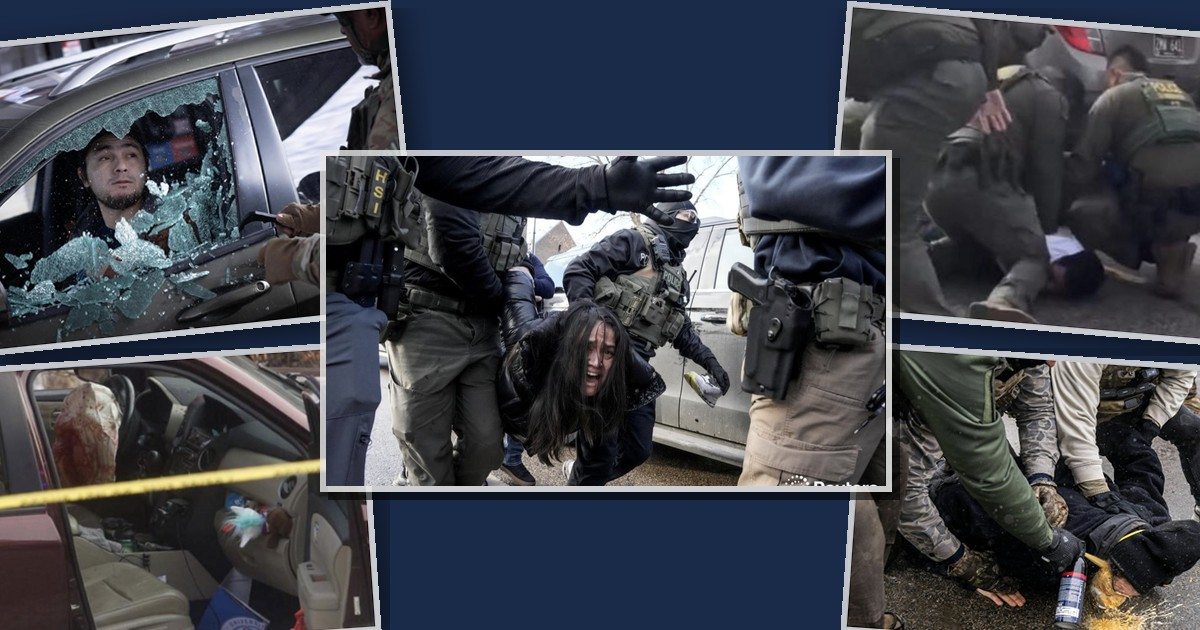
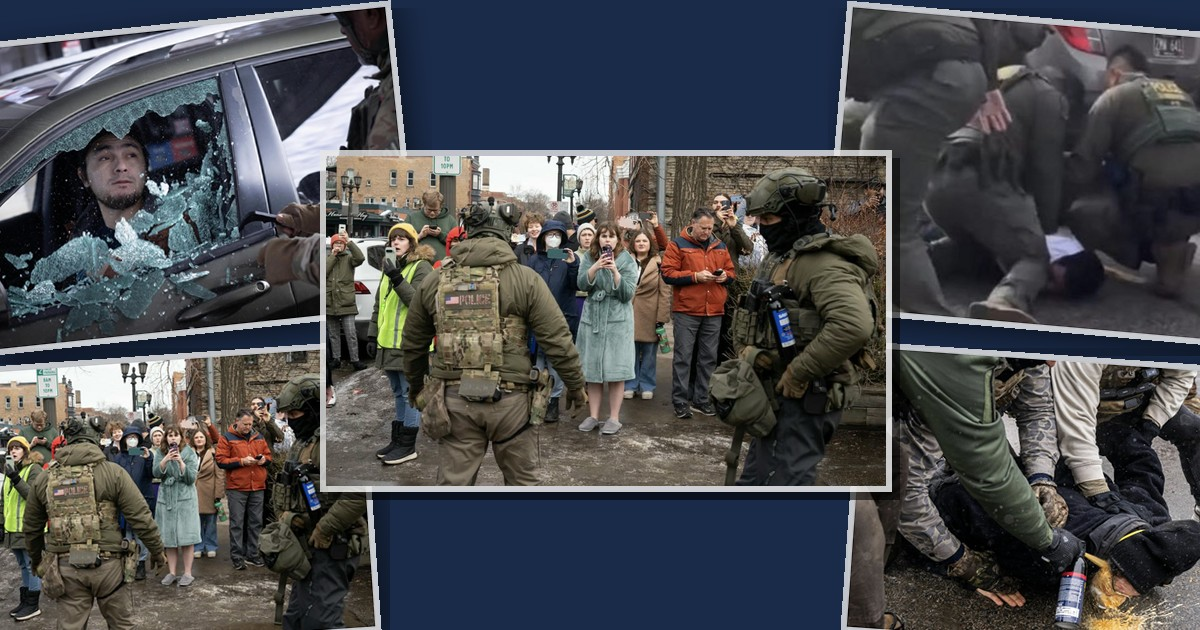
Update meta descriptions to 250+ sourced media stories, swap OG center image

diff --git a/docs/index.html b/docs/index.html
@@ -6,7 +6,7 @@
     <meta http-equiv="Cache-Control" content="no-cache, no-store, must-revalidate">
     <meta http-equiv="Pragma" content="no-cache">
     <meta http-equiv="Expires" content="0">
-    <meta name="description" content="Documenting 180+ ICE and CBP incidents in Minnesota during Operation Metro Surge (Dec 2025–present). Two citizens killed by federal agents. Children detained and flown to Texas. Schools raided and closed. Hospitals entered without warrants. Citizens racially profiled. Observers arrested for filming. Businesses shuttered. Sourced reports with video evidence, news coverage, and a chronological timeline of key events.">
+    <meta name="description" content="250+ sourced media stories documenting ICE and CBP incidents in Minnesota during Operation Metro Surge (Dec 2025–present). Each incident links to news coverage and video evidence, organized with a chronological timeline.">
     <meta name="keywords" content="ICE Minnesota, ICE raids Minnesota, ICE arrests Minnesota, ICE activity Minnesota, ICE incidents Minnesota, ICE operations Minnesota, ICE tracker Minnesota, ICE database Minnesota, ICE enforcement Minnesota, immigration raids Minneapolis, immigration enforcement Minnesota, CBP Minnesota, Operation Metro Surge, Operation Metro Surge incidents, Operation Metro Surge timeline, Operation Metro Surge summary, civil rights violations ICE, human rights ICE Minnesota, racial profiling ICE, ICE detentions Minnesota, ICE deportations Minnesota, ICE encounters Minnesota, document ICE activity, ICE accountability, Minneapolis ICE raids, St Paul ICE, Rochester ICE, Mankato ICE, St Cloud ICE, Willmar ICE, Twin Cities immigration enforcement, Minnesota immigration raids, ICE near schools Minnesota, ICE near hospitals, ICE school raid Minneapolis, ICE hospital Minnesota, Roosevelt High School ICE, ICE observer rights, filming ICE agents, First Amendment ICE, ICE pepper spray Minnesota, ICE tear gas Minneapolis, ICE flashbang Minnesota, ICE citizen detained, ICE wrong person, ICE racial profiling, ICE citizen check Minnesota, ICE shooting Minnesota, CBP shooting Minneapolis, Renee Good ICE, Alex Pretti ICE, ICE child detained Minnesota, family separation Minnesota, Liam Ramos ICE, Elizabeth Caisaguano ICE, ICE economic impact Minnesota, Lake Street business closures ICE, general strike Minneapolis, ACLU ICE Minnesota, Tincher v Noem, Hussen v Noem, ICE court order violated, ICE contempt Minnesota, Operation PARRIS Minnesota, ICE green card detained, ICE facial recognition Minnesota, ICE surveillance Minnesota, ICE fake plates Minnesota, ICE workplace raid Minnesota, ICE restaurant raid Minnesota, sanctuary city Minneapolis, Trump immigration Minnesota, Insurrection Act Minnesota, DHS Minnesota, Kristi Noem Minnesota, Tom Homan Minnesota, Greg Bovino Minnesota, ICE Whipple Building, Karmel Mall ICE, HCMC ICE, immigrant rights Minnesota, know your rights ICE, ICE incident reports, MN ICE Witness">
     <meta name="author" content="MN ICE Witness">
     <meta name="robots" content="index, follow">
@@ -15,17 +15,17 @@
     <link rel="canonical" href="https://mn-ice-witness.org/">
 
     <!-- Favicon and App Icons -->
-    <link rel="icon" type="image/x-icon" href="/assets/favicon.ico?v=1770956176">
-    <link rel="icon" type="image/png" sizes="32x32" href="/assets/favicon-32x32.png?v=1770956176">
-    <link rel="icon" type="image/png" sizes="16x16" href="/assets/favicon-16x16.png?v=1770956176">
-    <link rel="apple-touch-icon" sizes="180x180" href="/assets/apple-touch-icon.png?v=1770956176">
+    <link rel="icon" type="image/x-icon" href="/assets/favicon.ico?v=1770956537">
+    <link rel="icon" type="image/png" sizes="32x32" href="/assets/favicon-32x32.png?v=1770956537">
+    <link rel="icon" type="image/png" sizes="16x16" href="/assets/favicon-16x16.png?v=1770956537">
+    <link rel="apple-touch-icon" sizes="180x180" href="/assets/apple-touch-icon.png?v=1770956537">
     <link rel="manifest" href="/manifest.json">
     <meta name="theme-color" content="#121212">
 
     <!-- Open Graph / Social Media -->
     <meta property="og:type" content="website">
     <meta property="og:title" content="MN ICE Witness - Sourced Operation Metro Surge Incidents">
-    <meta property="og:description" content="180+ documented ICE incidents in Minnesota during Operation Metro Surge. Two citizens killed, children detained, schools raided, racial profiling. Sourced reports with video evidence and a chronological timeline.">
+    <meta property="og:description" content="250+ sourced media stories documenting ICE and CBP incidents in Minnesota during Operation Metro Surge. Each incident links to news coverage and video evidence, organized with a chronological timeline.">
     <meta property="og:image" content="https://mn-ice-witness.org/assets/og-image.jpg">
     <meta property="og:image:width" content="1200">
     <meta property="og:image:height" content="630">
@@ -35,7 +35,7 @@
     <!-- Twitter Card -->
     <meta name="twitter:card" content="summary_large_image">
     <meta name="twitter:title" content="MN ICE Witness - Sourced Operation Metro Surge Incidents">
-    <meta name="twitter:description" content="180+ documented ICE incidents in Minnesota during Operation Metro Surge. Two citizens killed, children detained, schools raided, racial profiling. Sourced reports with video evidence and a chronological timeline.">
+    <meta name="twitter:description" content="250+ sourced media stories documenting ICE and CBP incidents in Minnesota during Operation Metro Surge. Each incident links to news coverage and video evidence, organized with a chronological timeline.">
     <meta name="twitter:image" content="https://mn-ice-witness.org/assets/og-image.jpg">
 
     <!-- Google tag (gtag.js) -->
@@ -48,8 +48,8 @@
     </script>
 
     <title>MN ICE Witness - Sourced Operation Metro Surge Incidents</title>
-    <link rel="stylesheet" href="/css/style.css?v=1770956176">
-    <link rel="stylesheet" href="/css/timeline.css?v=1770956176">
+    <link rel="stylesheet" href="/css/style.css?v=1770956537">
+    <link rel="stylesheet" href="/css/timeline.css?v=1770956537">
     <!-- SPLASH DISABLED
     <script>
         (function() {
@@ -71,7 +71,7 @@
         "name": "MN ICE Witness",
         "alternateName": ["Minnesota ICE Witness", "MN ICE Files", "Minnesota ICE Database", "Minnesota ICE Tracker"],
         "url": "https://mn-ice-witness.org",
-        "description": "Database of 180+ documented ICE and CBP enforcement incidents in Minnesota during Operation Metro Surge (December 2025–present). Two fatal shootings, children detained and deported, school raids, hospital enforcement, racial profiling of U.S. citizens, observer arrests, economic disruption, and court orders violated. Sourced reports with video evidence and a chronological timeline across Minneapolis, St. Paul, Rochester, and greater Minnesota.",
+        "description": "250+ sourced media stories documenting ICE and CBP enforcement incidents in Minnesota during Operation Metro Surge (December 2025–present). Two fatal shootings, children detained and deported, school raids, hospital enforcement, racial profiling of U.S. citizens, observer arrests, economic disruption, and court orders violated. Video evidence and a chronological timeline across Minneapolis, St. Paul, Rochester, and greater Minnesota.",
         "publisher": {
             "@type": "Organization",
             "name": "MN ICE Witness",
@@ -92,7 +92,7 @@
         "@type": "Dataset",
         "name": "Minnesota ICE/CBP Civil Rights Incident Database",
         "alternateName": ["Minnesota ICE Raid Database", "MN ICE Incident Tracker", "Minnesota Immigration Enforcement Database"],
-        "description": "Comprehensive database of ICE and CBP enforcement incidents in Minnesota during Operation Metro Surge (December 2025–present). Documents fatal shootings of citizens, child detentions, family separations, school raids and closures, hospital enforcement, racial profiling and citizen checks, observer arrests, workplace raids, economic disruption, ACLU lawsuits, court orders violated, flashbang and tear gas use, deceptive tactics, and facial recognition surveillance. Each incident includes multiple news sources, video evidence, and official statements.",
+        "description": "250+ sourced media stories documenting ICE and CBP enforcement incidents in Minnesota during Operation Metro Surge (December 2025–present). Covers fatal shootings of citizens, child detentions, family separations, school raids and closures, hospital enforcement, racial profiling and citizen checks, observer arrests, workplace raids, economic disruption, ACLU lawsuits, court orders violated, flashbang and tear gas use, deceptive tactics, and facial recognition surveillance. Each incident includes multiple news sources, video evidence, and official statements.",
         "url": "https://mn-ice-witness.org",
         "keywords": [
             "ICE", "CBP", "Minnesota", "civil rights", "human rights", "Operation Metro Surge",
@@ -466,19 +466,19 @@
 
     <script src="/js/marked.min.js"></script>
     <!-- Core modules (no dependencies) -->
-    <script src="/js/parser.js?v=1770956176"></script>
-    <script src="/js/router.js?v=1770956176"></script>
-    <script src="/js/media-controls.js?v=1770956176"></script>
+    <script src="/js/parser.js?v=1770956537"></script>
+    <script src="/js/router.js?v=1770956537"></script>
+    <script src="/js/media-controls.js?v=1770956537"></script>
     <!-- Feature modules -->
-    <script src="/js/view-state.js?v=1770956176"></script>
-    <script src="/js/splash.js?v=1770956176"></script>
-    <script src="/js/lightbox-content.js?v=1770956176"></script>
-    <script src="/js/lightbox.js?v=1770956176"></script>
-    <script src="/js/media-gallery.js?v=1770956176"></script>
-    <script src="/js/search.js?v=1770956176"></script>
-    <script src="/js/timeline.js?v=1770956176"></script>
+    <script src="/js/view-state.js?v=1770956537"></script>
+    <script src="/js/splash.js?v=1770956537"></script>
+    <script src="/js/lightbox-content.js?v=1770956537"></script>
+    <script src="/js/lightbox.js?v=1770956537"></script>
+    <script src="/js/media-gallery.js?v=1770956537"></script>
+    <script src="/js/search.js?v=1770956537"></script>
+    <script src="/js/timeline.js?v=1770956537"></script>
     <!-- Main app (last, coordinates all modules) -->
-    <script src="/js/app.js?v=1770956176"></script>
+    <script src="/js/app.js?v=1770956537"></script>
 </body>
 </html>
 <!-- build test 1769912033 -->
